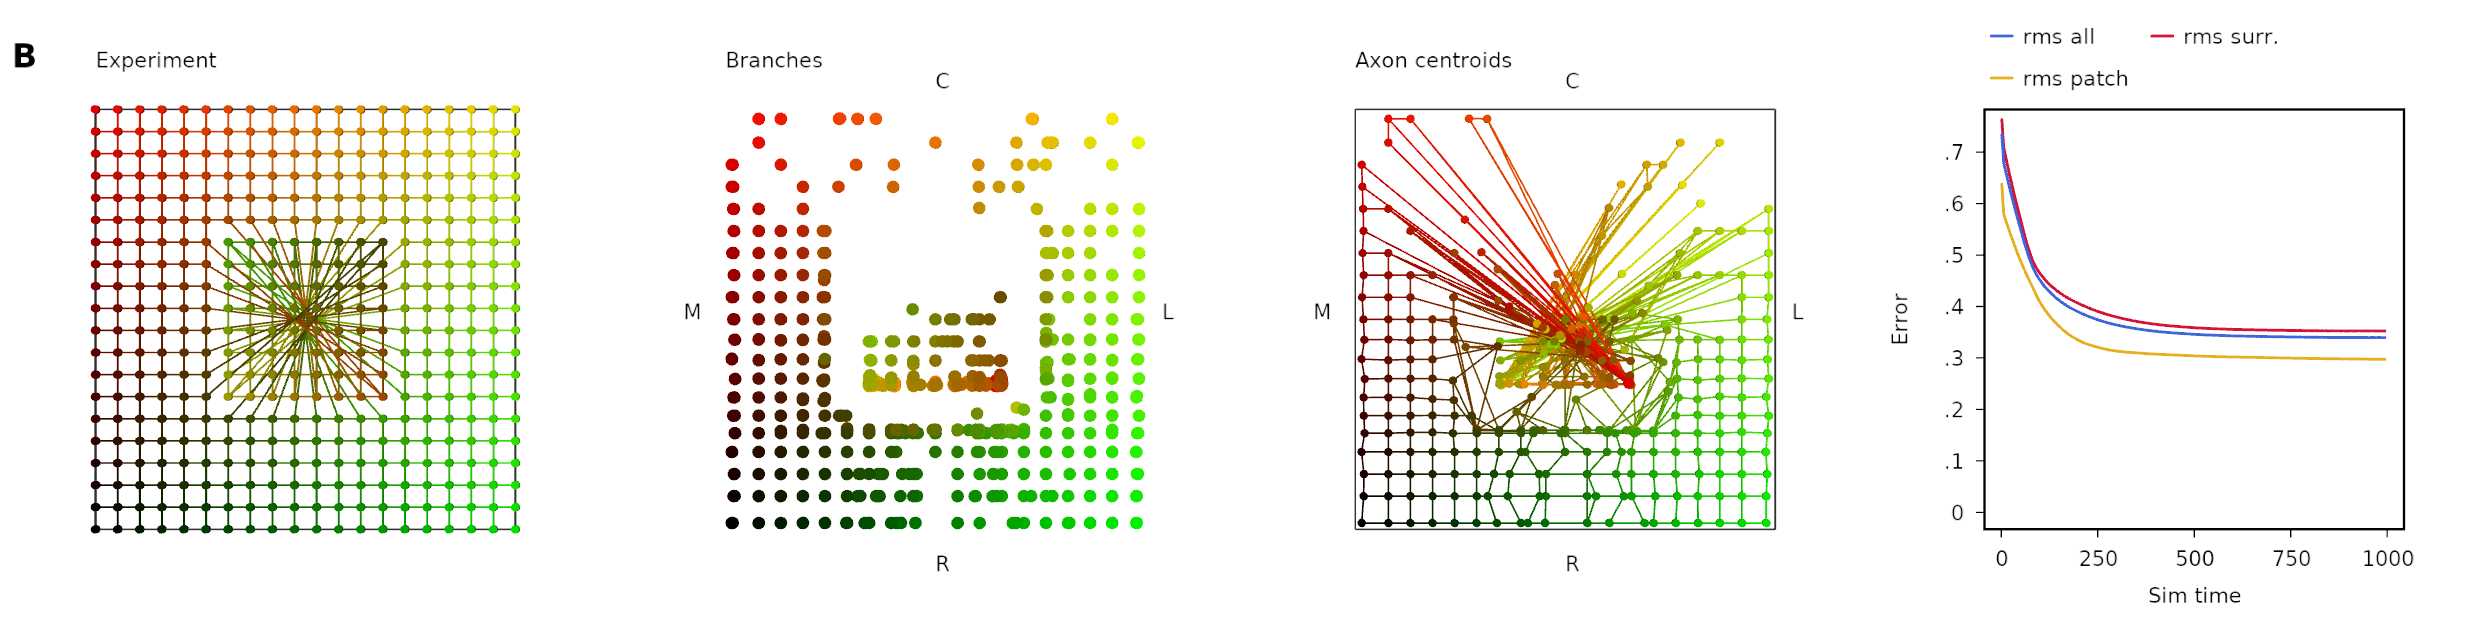
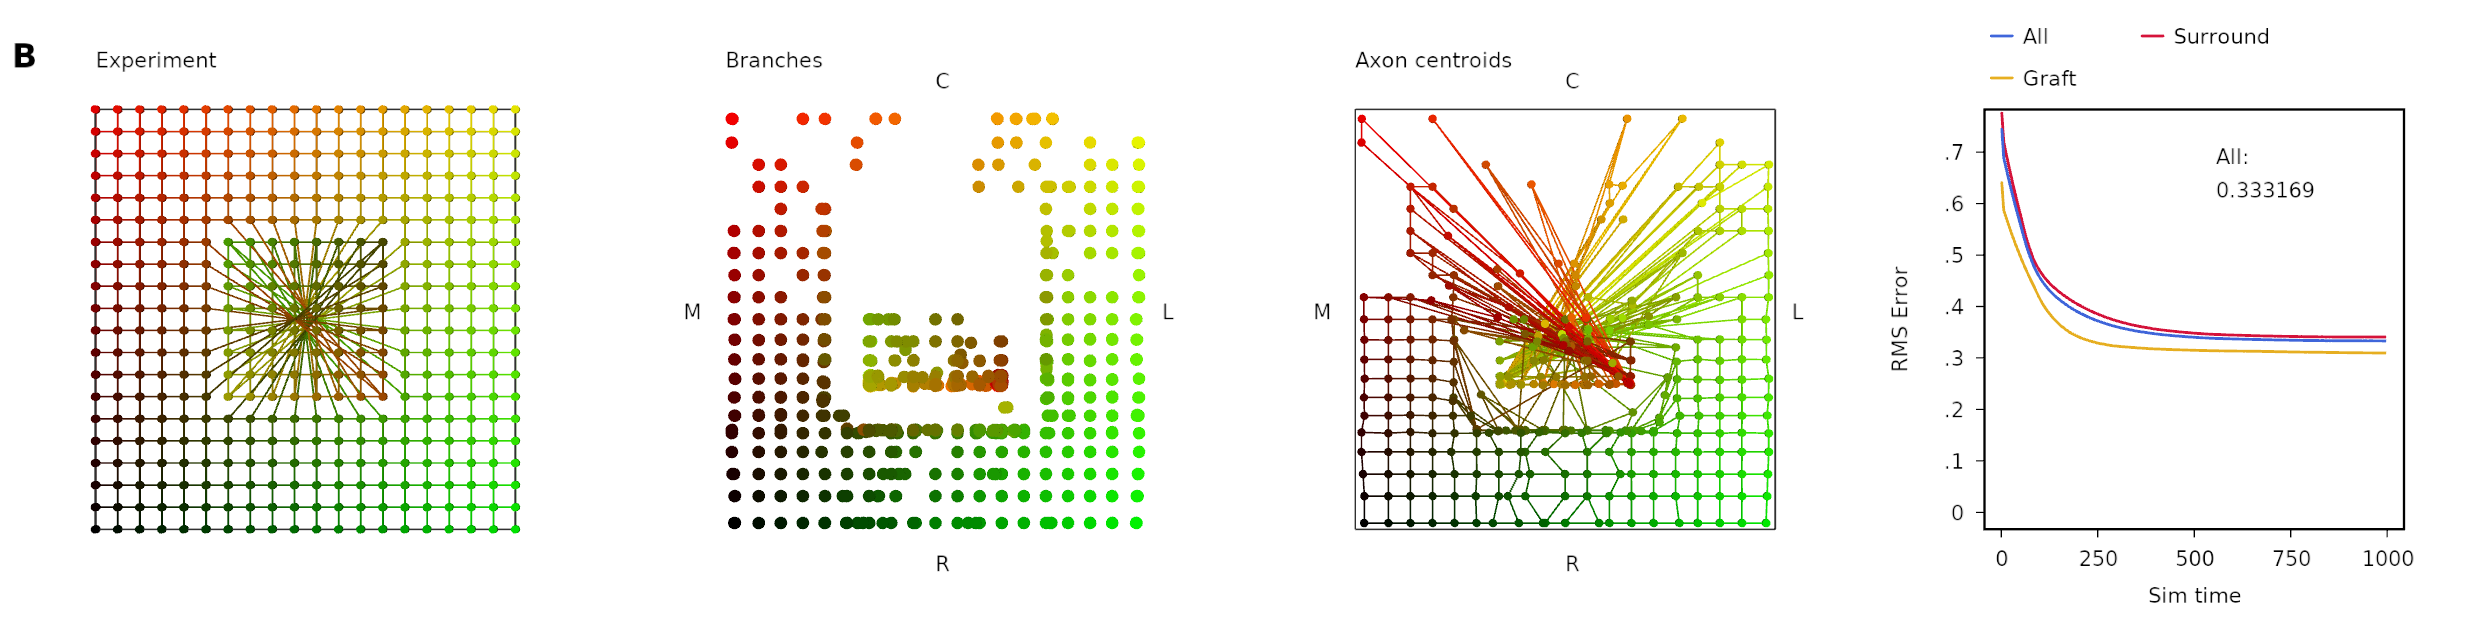
Further updates to fig_chemo_manipulations mode

diff --git a/sim/agent/agent1.h b/sim/agent/agent1.h
@@ -377,12 +377,18 @@ struct Agent1
             this->gv->append ((float)stepnum, this->ax_centroids.rms(), 0); // SOS (whole)
             this->gv->append ((float)stepnum, this->ax_centroids.rms_outside({0.25,0.25,0},{0.75,0.75,0}), 1); // SOS (surround)
             this->gv->append ((float)stepnum, this->ax_centroids.rms_inside({0.25,0.25,0},{0.75,0.75,0}), 2); // SOS (patch)
+            // Show RMS error
+            AgentMetrics<T> am = this->get_metrics();
+            this->sos_txt->setupText (std::to_string(am.rms[0]));
             break;
         }
         case graph_layout::h:
         {
             this->bv->reinit(); // Branches
             this->cv->reinit(); // Centroids
+            // Show RMS error
+            AgentMetrics<T> am = this->get_metrics();
+            this->sos_txt->setupText (std::to_string(am.rms[0]));
             break;
         }
         default:
@@ -461,7 +467,7 @@ struct Agent1
     }
 
     //! RNG for adding noise to gradient sampling
-    morph::RandNormal<T, std::mt19937>* gradient_rng = (morph::RandNormal<T, std::mt19937>*)0;
+    morph::RandNormal<T, std::mt19937>* gradient_rng = nullptr;
 
     //! Perform one step of the simulation
     void step()
@@ -951,7 +957,7 @@ struct Agent1
         this->setup_expt_suggests();
 #ifdef VISUALISE
         this->ax_history.clear();
-        if (this->gv != (morph::GraphVisual<T>*)0) { this->gv->clear(); }
+        if (this->gv != nullptr) { this->gv->clear(); }
 #endif
     }
 
@@ -1380,9 +1386,9 @@ struct Agent1
     }
 
     // Updatable simulation time text
-    morph::VisualTextModel* sim_time_txt = (morph::VisualTextModel*)0;
-    morph::VisualTextModel* sos_txt = (morph::VisualTextModel*)0;
-    morph::VisualTextModel* crossings_txt = (morph::VisualTextModel*)0;
+    morph::VisualTextModel* sim_time_txt = nullptr;
+    morph::VisualTextModel* sos_txt = nullptr;
+    morph::VisualTextModel* crossings_txt = nullptr;
 
     // Set up the simulation visualisation scene. This depends on whether this->layout
     // is graph_layout::a, ::b or ::c, etc.
@@ -1875,13 +1881,23 @@ struct Agent1
         this->gv->setlimits (0, this->conf->getFloat ("steps", 1000),
                              0, this->conf->getFloat("graph_ymax", 200.0f));
         this->gv->policy = morph::stylepolicy::lines;
-        this->gv->ylabel = "Error";
+        this->gv->ylabel = "RMS Error";
         this->gv->xlabel = "Sim time";
-        this->gv->prepdata ("rms all");
-        this->gv->prepdata ("rms surr.");
-        this->gv->prepdata ("rms patch");
+        this->gv->prepdata ("All");
+        this->gv->prepdata ("Surround");
+        this->gv->prepdata ("Graft");
         this->gv->finalize();
         this->v->addVisualModel (this->gv);
+
+        // A 'text' only visual model to display the RMS error
+        morph::VisualModel* sosvm = new morph::VisualModel (v->shaderprog, v->tshaderprog, g_D);
+        float ty = 0.87f; // text y position
+        float l_x = 0.55f; // text x pos
+        float th = 0.1f; // text height
+        sosvm->addLabel ("All: ", {l_x, ty, 0.0f});
+        sosvm->addLabel ("0", {l_x, ty-0.8f*th, 0.0f}, this->sos_txt);
+        ty -= 2*th;
+        v->addVisualModel (sosvm);
 
         // Figure letters
         morph::Vector<float> ozero = {-0.2f, 1.1f, 0.0f};
@@ -1934,6 +1950,16 @@ struct Agent1
         this->gv->xlabel = "N ---------- retina ---------> T";
         this->gv->finalize();
         v->addVisualModel (this->gv);
+
+        // A 'text' only visual model to display the RMS error
+        morph::VisualModel* sosvm = new morph::VisualModel (v->shaderprog, v->tshaderprog, g_D);
+        float ty = 0.87f; // text y position
+        float l_x = 0.55f; // text x pos
+        float th = 0.1f; // text height
+        sosvm->addLabel ("Error: ", {l_x, ty, 0.0f});
+        sosvm->addLabel ("0", {l_x, ty-0.8f*th, 0.0f}, this->sos_txt);
+        ty -= 2*th;
+        v->addVisualModel (sosvm);
 
         // Figure letters
         morph::Vector<float> ozero = {-0.2f, 1.1f, 0.0f};
